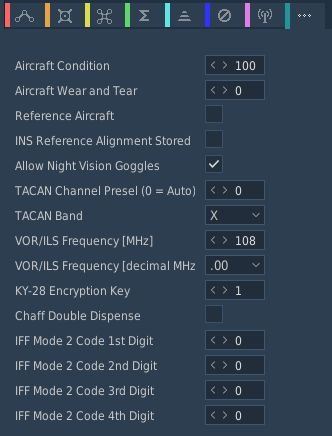
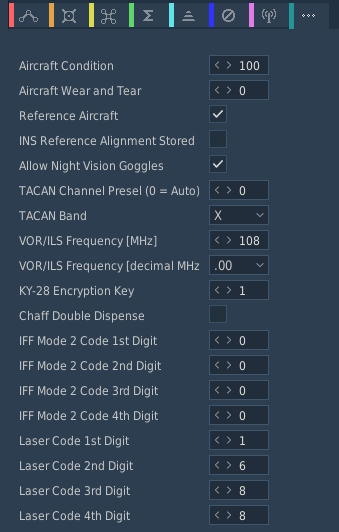
chief menu, AFCS breakout details, mission editor laser codes, mission planning

diff --git a/src/procedures/mission_planning.md b/src/procedures/mission_planning.md
@@ -1,0 +1,85 @@
+# Mission Planning
+
+> 🚧 This section is under construction.
+
+Optimum use of the aircraft to obtain maximum
+performance with minimum fuel consumption requires
+careful preflight planning for the mission. The planning of
+a mission involves many things which are beyond the
+scope of this publication. As used here, mission planning
+will cover certain key phases of a mission and explain the
+use of performance charts.
+
+The following sample Counter Air mission demonstrates
+features of performance data. Although
+the sample problem does not cover the many mission
+capabilities of the aircraft, it familiarizes the aircrew
+with the use of performance data so that any mission may be
+preflight planned in a short time.
+
+The sample problem illustrates, through a graphical
+solution, how performance charts can be integrated to
+form a complete mission flight plan. The steps used to
+develop such a plot are shown with the problem.
+
+## Counter Air Mission Profile
+
+Perform maximum thrust takeoff and climb at military
+thrust. Cruise at optimum altitude and maximum range
+speed to a combat zone 500 miles from the air base. Drop
+external tanks when empty. Perform combat
+maneuvering at maximum thrust for the full duration —
+allowed by return and landing fuel requirements. Missiles
+and gun rounds are assumed to be expended at the end of
+the combat period. Return to the airfield at optimum
+altitude and airspeed. Descend at maximum range
+descent, arriving at the destination with 2000 pounds
+landing fuel reserve. The Counter Air Mission Overview
+and the Sample Mission Plan depict the overall mission plan.
+
+## Mission Data
+
+Configuration
+
+- (4) AIM-9 Missiles, Pylons and Launchers
+- (4) AIM-7D Missiles
+- (1)Nosegun (639 rounds ammo)
+- (2) 370 Gallon External Wing Tanks
+- (1) 600 Gallon Centerline Tank
+- Useable Fuel (includes external tanks) 20,768 pounds
+
+## Mission Factors
+
+Sure, here's your information converted into Markdown tables:
+
+Takeoff:
+
+| Parameter            | Value            |
+|----------------------|------------------|
+| Wind                 | Calm             |
+| Pressure altitude    | 2000 Ft          |
+| Temperature          | +38.5°C          |
+| Runway               | 020°             |
+| Runway length        | 9000 Ft          |
+| Climb out wind       | (headwind) 20 Kt |
+| Cruise out wind      | (headwind) 50 Kt |
+| Cruise return wind   | (tailwind) 50 Kt |
+| Descent wind         | (tailwind) 20 Kt |
+
+Landing:
+
+| Parameter            | Value       |
+|----------------------|-------------|
+| Wind                 | 020°/10     |
+| Pressure altitude    | 2000 Ft     |
+| Temperature          | +20°C       |
+| Runway               | 020°        |
+| Runway length        | 9000 Ft     |
+
+## Figures
+
+![counter_air_mission](../img/counter_air_mission.jpg)
+
+<!-- ![sample_mission_plan](../img/sample_mission_plan.jpg) -->
+
+![sample_mission_profile](../img/sample_mission_profile.jpg)

diff --git a/src/dcs/special_options.md b/src/dcs/special_options.md
@@ -50,13 +50,24 @@ Gs.
 
 ## AFCS Breakout Deadzone
 
-Percentage of stick input after which the AFCS system will recognize the pilot
-stick was moved from neutral trim position (force transducer switches closed).
+Percentage of stick input (separate for roll and pitch) after which the AFCS
+system will recognize the pilot stick was moved from neutral trim position
+(force transducer switches closed).
 
 This will affect the AFCS roll and pitch channel operation and prevent it from
-fighting your roll input. That is, when moving the stick beyond this deadzone,
+fighting your input. That is, when moving the stick beyond this deadzone,
 the AFCS understands that the pilot wants to take control and the AFCS will stop
-trying to correct the movement.
+trying to correct the movement. The roll breakout will temporarily disable the
+roll stab aug as well as bank angle hold and heading hold. The pitch breakout
+will temporarily disable the pitch attitude hold as well altitude hold.
+
+This deadzone is "on top" of the DCS axis deadzone so the higher basic deadzone you
+have on your axis the less AFCS breakout deadzone is recommended. Keep in mind that
+setting low values while having your basic deadzone also low can result in some of
+the autopilot functions not engaging even when you let go of the stick because
+the stick may still be not perfectly neutral.
+
+Default values are 1% for roll and 2% for pitch.
 
 For more info see
 [Force Transducer](../systems/flight_controls_gear/flight_controls.md#force-transducer).

diff --git a/src/systems/flight_controls_gear/flight_controls.md b/src/systems/flight_controls_gear/flight_controls.md
@@ -76,7 +76,7 @@ a number of weapon selection functions.
 
 Also, unique to the front cockpit stick is a force transducer, to allow the pilot
 fine adjustment control of the AFCS with the autopilot functionality engaged. In the event the force
-applied to the stick exceeds the AFCS breakout limit, autopilot will be turned off.
+applied to the stick exceeds the AFCS breakout limit, autopilot will be temporarily turned off.
 
 ## Aileron-Spoiler Control and Stabilator Control Feel and Trim Systems
 

diff --git a/src/SUMMARY.md b/src/SUMMARY.md
@@ -162,6 +162,7 @@
     - [WRCS BIT Procedures](./procedures/bit_tests/wrcs.md)
     - [Navigation Test Procedures](./procedures/bit_tests/navigation_tests.md)
     - [Optical Sight BIT Procedure](./procedures/bit_tests/optical_sight.md)
+  - [Mission Planning](./procedures/mission_planning.md)
 - [Emergency Procedures](./emergency_procedures/overwiew.md)
   - [Inflight](./emergency_procedures/in_flight.md)
   - [Landing](./emergency_procedures/landing.md)

diff --git a/src/dcs/mission_editor.md b/src/dcs/mission_editor.md
@@ -152,6 +152,10 @@ for details.
 
 Allows to preselect a Mode 2 code for the IFF system.
 
+## Laser Options
+
+Allows to preselect a laser code for targeting pod and laser-guided weapons.
+
 ## Radio Options
 
 The editor allows to preset all 18 COMM and 20 AUX channels of the UHF radio:
